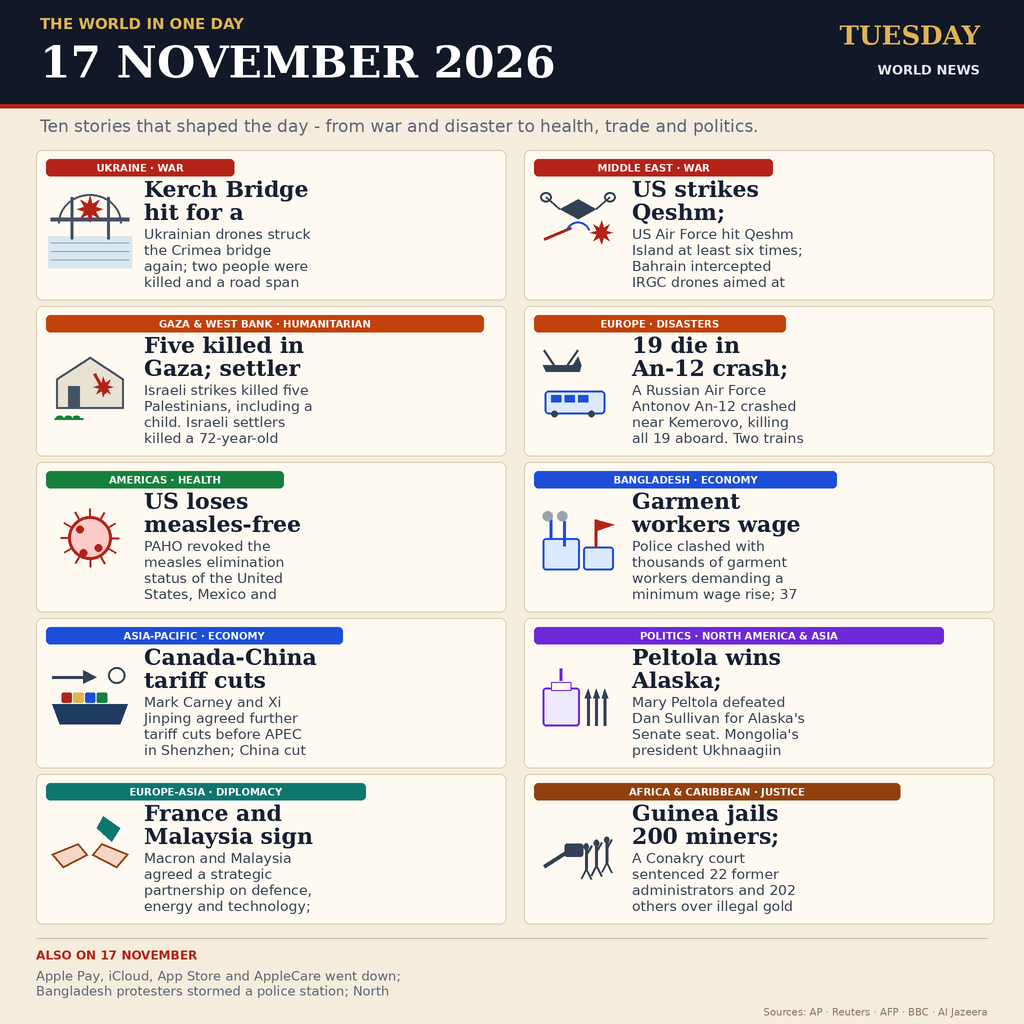
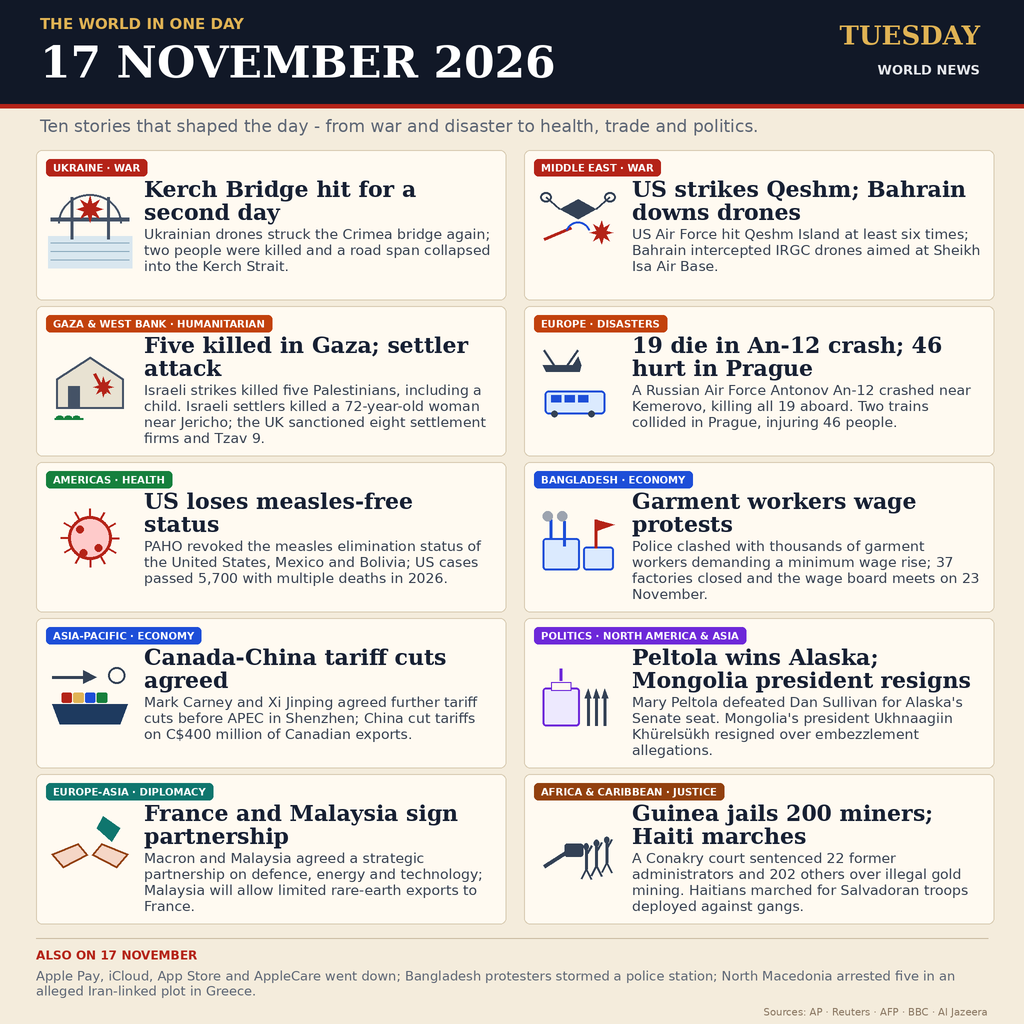
Fix logical text widths and reject clipped poster captions

diff --git a/render.py b/render.py
@@ -37,8 +37,10 @@ def wrap(text, f, max_width):
     lines = []
     current = ""
     for word in words:
+        if f.getlength(word) / S > max_width:
+            raise ValueError(f"Word exceeds available logical width: {word!r}")
         candidate = word if not current else current + " " + word
-        if f.getlength(candidate) <= max_width:
+        if f.getlength(candidate) / S <= max_width:
             current = candidate
         else:
             if current:
@@ -51,8 +53,8 @@ def wrap(text, f, max_width):
 
 def paragraph(draw, text, f, x, y, max_width, line_height, fill, max_lines=None):
     lines = wrap(text, f, max_width)
-    if max_lines is not None:
-        lines = lines[:max_lines]
+    if max_lines is not None and len(lines) > max_lines:
+        raise ValueError(f"Text needs {len(lines)} lines, only {max_lines} fit: {text!r}")
     for i, line in enumerate(lines):
         draw.text((x * S, (y + i * line_height) * S), line, font=f, fill=fill)
     return len(lines)
@@ -284,7 +286,7 @@ def main():
         rr(d, (cx, cy, cx + card_w, cy + card_h), 6, fill=CARD, outline=BORDER, width=1)
         # category pill
         f_cat = font(SANS_BOLD, 10)
-        pill_w = f_cat.getlength(cat) + 14
+        pill_w = f_cat.getlength(cat) / S + 14
         rr(d, (cx + 10, cy + 9, cx + 10 + pill_w, cy + 26), 4, fill=cat_color)
         d.text(((cx + 10 + pill_w / 2) * S, (cy + 12) * S), cat, font=f_cat, fill="#ffffff", anchor="ma")
         # icon
@@ -306,9 +308,7 @@ def main():
     ticker = ("Apple Pay, iCloud, App Store and AppleCare went down; Bangladesh protesters stormed a police station; "
               "North Macedonia arrested five in an alleged Iran-linked plot in Greece.")
     f_tick = font(SANS, 13)
-    lines = wrap(ticker, f_tick, 800)
-    for j, ln in enumerate(lines[:2]):
-        d.text((36 * S, (968 + j * 15) * S), ln, font=f_tick, fill=MUTED)
+    paragraph(d, ticker, f_tick, 36, 968, 952, 15, MUTED, max_lines=2)
     d.text((988 * S, 1006 * S), "Sources: AP · Reuters · AFP · BBC · Al Jazeera", font=font(SANS, 10), fill="#8a7762", anchor="ra")
 
     out = img.resize((W, W), Image.LANCZOS)
